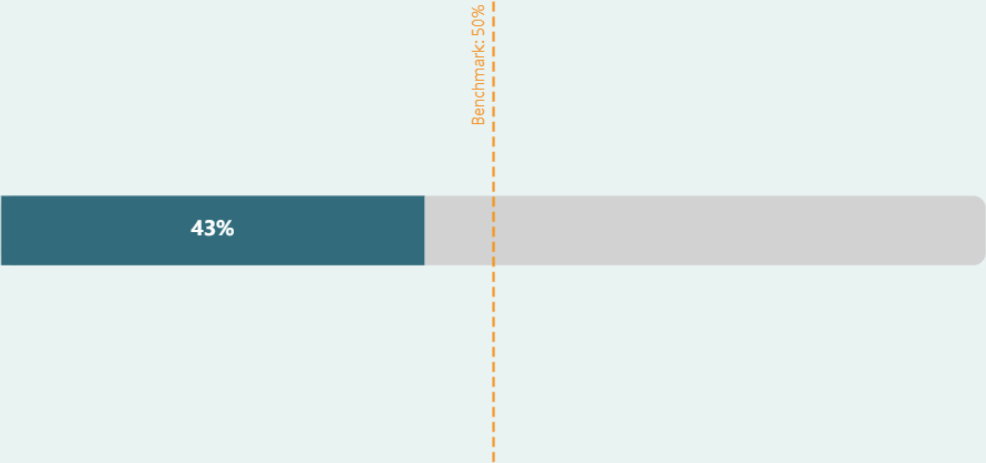
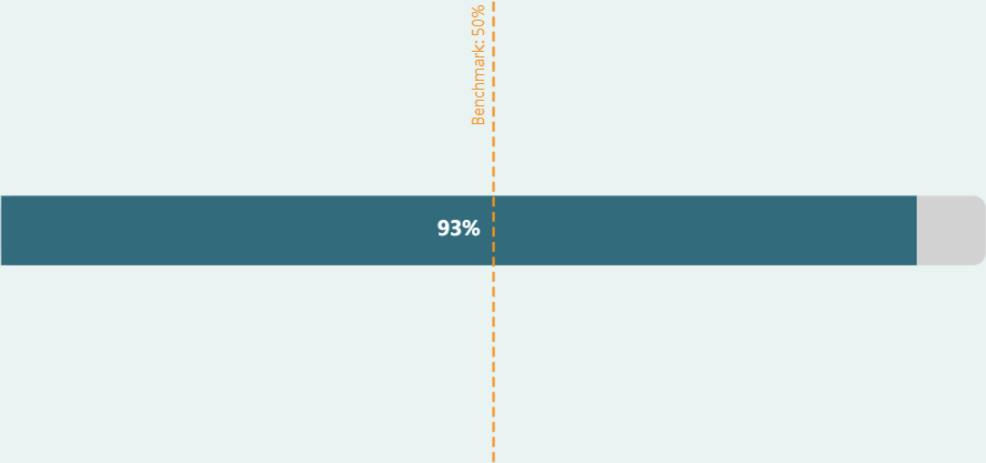
Enhances framing effect explanations in slides
- Refines slide content to clarify psychological principles of framing, illustrating the impact of progress vs. gap framing.

Changed region(s): [[0.426, 0.4233, 0.9432, 0.5745], [0.1826, 0.4536, 0.2434, 0.514]]

diff --git a/conference-materials/2025_shiny-conf/slides.html b/conference-materials/2025_shiny-conf/slides.html
@@ -946,11 +946,17 @@ Ever felt like this?
 <aside class="notes">
 <p><strong>Framing Effect</strong>: Drive home the practical impact.</p>
 <ul>
-<li>This illustrates the powerful psychological principles at work…we’re showing identical data but creating completely different mental states</li>
-<li>Progress framing highlights achievement and builds confidence…marketing team preferred this approach</li>
-<li>Gap framing creates urgency and focuses on improvements needed - product teams used this view</li>
-<li>“This isn’t just theory - a classic study showed that people react completely differently when presenting identical medical treatment outcomes as either a 90% survival rate or a 10% mortality rate … even though it’s the same data”</li>
-<li>Consider how framing in your dashboards might drive different decisions</li>
+<li>This illustrates powerful psychological principles in action…we’re showing identical underlying data but creating completely different mental states [CLICK]</li>
+<li>In this example, progress (gain) framing shows the <em>relative difference</em> between the raw value and the benchmark…highlighting achievement and building confidence
+<ul>
+<li>SoundPulse’s marketing team preferred this approach for stakeholder presentations and showing the progress made [CLICK]</li>
+</ul></li>
+<li>BUT…the gap (loss) framing shows the raw values vs.&nbsp;the benchmark…creating urgency and focusing on improvements needed
+<ul>
+<li>Their product teams used this view to prioritize development</li>
+</ul></li>
+<li>This isn’t just theory - classic research shows people react completely differently to identical medical outcomes presented as either a “90% survival rate” or a “10% mortality rate”</li>
+<li>Think about your own dashboards - how might framing choices drive different decisions for your users?</li>
 </ul>
 <style type="text/css">
         span.MJX_Assistive_MathML {
@@ -1036,7 +1042,7 @@ Ever felt like this?
 <pre><code># A tibble: 1 × 6
   stage  problem                 theory evidence suggestions timestamp          
   &lt;chr&gt;  &lt;chr&gt;                   &lt;chr&gt;  &lt;chr&gt;    &lt;chr&gt;       &lt;dttm&gt;             
-1 Notice Users overwhelmed by f… Hick'… Feedbac… Reduce dro… 2025-04-08 20:42:16</code></pre>
+1 Notice Users overwhelmed by f… Hick'… Feedbac… Reduce dro… 2025-04-08 20:55:19</code></pre>
 </div>
 <div class="sourceCode cell-code" id="cb8"><pre class="sourceCode numberSource r number-lines code-with-copy"><code class="sourceCode r"><span id="cb8-1"><a href=""></a>notice_stage<span class="sc">$</span>theory</span></code><button title="Copy to Clipboard" class="code-copy-button"><i class="bi"></i></button></pre></div>
 <div class="cell-output cell-output-stdout">
@@ -1101,7 +1107,7 @@ Ever felt like this?
 <pre><code># A tibble: 1 × 6
   stage  problem                 theory evidence suggestions timestamp          
   &lt;chr&gt;  &lt;chr&gt;                   &lt;chr&gt;  &lt;chr&gt;    &lt;chr&gt;       &lt;dttm&gt;             
-1 Notice Users overwhelmed by f… Cogni… Feedbac… Use tabs o… 2025-04-08 20:42:16</code></pre>
+1 Notice Users overwhelmed by f… Cogni… Feedbac… Use tabs o… 2025-04-08 20:55:19</code></pre>
 </div>
 <div class="sourceCode cell-code" id="cb22"><pre class="sourceCode numberSource r number-lines code-with-copy"><code class="sourceCode r"><span id="cb22-1"><a href=""></a>notice_stage<span class="sc">$</span>theory</span></code><button title="Copy to Clipboard" class="code-copy-button"><i class="bi"></i></button></pre></div>
 <div class="cell-output cell-output-stdout">
